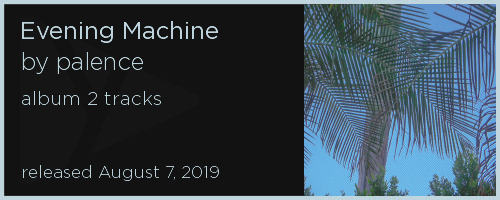
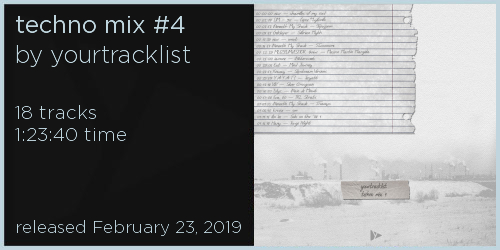
added request from mix to backend

diff --git a/routes/mix.js b/routes/mix.js
@@ -23,49 +23,54 @@ const upload = multer({ storage });
 
 // Mix
 router.post('/', upload.single('cover'), async (req,res) => {
-    const { mix_name, mix_duration, mix_tracks, date_rel, type} = req.body;
-    console.log(mix_name)
-    console.log(mix_duration)
+    const { mix_name, mix_duration, mix_tracks, date_rel, public_name} = req.body;
 
 
-    // Jimp.read('templateImage/template_mix.jpg', (err, template) => {
-    //     Jimp.read('uploads/cover.jpg', (err, image) => {
-    //         if (err) throw err;
-    //         image.cover(192, 192) // resize
-    //         template.composite(image, 304, 4 ).write('result/cart.jpg'); 
+    Jimp.read('templateImage/template_mix.jpg', (err, template) => {
+        Jimp.read('uploads/cover.jpg', (err, image) => {
+            if (err) throw err;
+            image.cover(242, 242) // resize
+            template.composite(image, 254, 4 ).write('result/cart.jpg'); 
             
-    //             Jimp.loadFont('fontsForCart/gotham_bold_24.fnt').then(font => {
-    //                 // load font from .fnt file 
-    //                 template
-    //                 .print(font, 20, 21, album_name)
-    //                 .write('result/cart.jpg'); 
-    //             });
+                Jimp.loadFont('fontsForCart/gotham_bold_24.fnt').then(font => {
+                    // load font from .fnt file 
+                    template
+                    .print(font, 15, 15, mix_name)
+                    .write('result/cart.jpg'); 
+                });
 
-    //             Jimp.loadFont('fontsForCart/gotham_light_24.fnt').then(font => {
-    //                 // load font from .fnt file 
-    //                 template
-    //                 .print(font, 21, 52, `by ${artist_name}`)
-    //                 .write('result/cart.jpg'); 
-    //             });
+                Jimp.loadFont('fontsForCart/gotham_light_24.fnt').then(font => {
+                    // load font from .fnt file 
+                    template
+                    .print(font, 15, 45, `by ${public_name}`)
+                    .write('result/cart.jpg'); 
+                });
 
-    //             Jimp.loadFont('fontsForCart/gotham_light_19.fnt').then(font => {
-    //                 // load font from .fnt file 
-    //                 template
-    //                 .print(font, 21, 91, `${type} ${album_tracks} tracks`)
-    //                 .write('result/cart.jpg'); 
-    //             });
+                Jimp.loadFont('fontsForCart/gotham_light_19.fnt').then(font => {
+                    // load font from .fnt file 
+                    template
+                    .print(font, 15, 105, `${mix_tracks} tracks`)
+                    .write('result/cart.jpg'); 
+                });
 
-    //             Jimp.loadFont('fontsForCart/gotham_light_17.fnt').then(font => {
-    //                 // load font from .fnt file 
-    //                 template
-    //                 .print(font, 21, 165, date_rel)
-    //                 .write('result/cart.jpg'); 
-    //             });
+                Jimp.loadFont('fontsForCart/gotham_light_19.fnt').then(font => {
+                    // load font from .fnt file 
+                    template
+                    .print(font, 15, 127, `${mix_duration} time`)
+                    .write('result/cart.jpg'); 
+                });
+
+                Jimp.loadFont('fontsForCart/gotham_light_17.fnt').then(font => {
+                    // load font from .fnt file 
+                    template
+                    .print(font, 15, 220, date_rel)
+                    .write('result/cart.jpg'); 
+                });
 
                 
                 
-    //     });
-    // });
+        });
+    });
   
     res.send('succes')
 

diff --git a/client/src/components/Mix.vue b/client/src/components/Mix.vue
@@ -19,11 +19,11 @@
 		
 		<div class="radio-wrap">
 			<label for="yourtracklist" class="label_radio">
-			<input type="radio" name="public" value="yourtracklist" id="yourtracklist" checked>
+			<input type="radio" name="public" value="yourtracklist" id="yourtracklist" checked v-model="publicName">
 			yourtracklist
 			</label>
 			<label for="lost2432615184" class="label_radio">
-			<input type="radio" name="public" value="lost2432615184" id="lost2432615184">
+			<input type="radio" name="public" value="lost2432615184" id="lost2432615184" v-model="publicName">
 			lost2432615184
 			</label>
 		</div>
@@ -39,18 +39,20 @@
 </template>
 
 <script>
-import createMixCart from '../createMixCart'
+import createCart from '../createCart'
 
 export default {
 
 	name: 'Mix',
 	data() {
 		return {
-			mix_name: "",
-			mix_duration: "",
+			mix_name: '',
+			mix_duration: '',
 			mix_tracks: 2,
-            date_rel: "",
-            cover: ""			
+            date_rel: '',
+			cover: '',
+			publicName: 'yourtracklist',
+			postUrlRequest: 'http://localhost:5000/mix/create'			
 		}
 	},
 	metaInfo: {
@@ -96,9 +98,9 @@ export default {
 				formData.append('mix_duration', this.mix_duration);
 				formData.append('mix_tracks', this.mix_tracks);
 				formData.append('date_rel', this.date_rel);
-				formData.append('type', this.type);
+				formData.append('public_name', this.publicName);
 
-				await createMixCart.sendInfoMix(formData);
+				await createCart.sendInfo(formData, this.postUrlRequest);
             }			
         },
         selectImage (file) {

diff --git a/client/src/components/Release.vue b/client/src/components/Release.vue
@@ -39,19 +39,19 @@
 </template>
 
 <script>
-import createReleasesCart from '../createReleasesCart'
+import createCart from '../createCart'
 
 export default {
 	name: 'Release',
 	data() {
 		return {
-			relIsActive: true,
 			album_name: '',
 			artist_name: '',
 			album_tracks: 2,
 			date_rel: '',
 			cover: '',
 			type: 'ep',
+			postUrlRequest: 'http://localhost:5000/releases/create'
 						
 		}
 	},
@@ -101,7 +101,7 @@ export default {
 				formData.append('date_rel', this.date_rel);
 				formData.append('type', this.type);
 
-				await createReleasesCart.sendInfoRelease(formData);
+				await createCart.sendInfo(formData, this.postUrlRequest);
 				
 
 				

diff --git a/client/src/createCart.js b/client/src/createCart.js
@@ -1,13 +1,12 @@
 import axios from 'axios';
 
-const url = 'http://localhost:5000/mix/create'
 
-class createMixCart {
+class createCart {
     
 
-    // Create Mix Cart
+    // Create Release Cart
 
-    static sendInfoMix(formData) {
+    static sendInfo(formData, url) {
       console.log(formData)
         return axios.post(url, formData,
         { 
@@ -24,4 +23,4 @@ class createMixCart {
 
 }
 
-export default createMixCart;
+export default createCart;

diff --git a/client/src/components/Header.vue b/client/src/components/Header.vue
@@ -36,8 +36,8 @@ export default {
     data() {
         return {
             image: require('@/assets/logo.png'),
-            relIsActive: $route(),
-            mixIsActive: $route()
+            relIsActive: true,
+            mixIsActive: false
         }
     },
     
